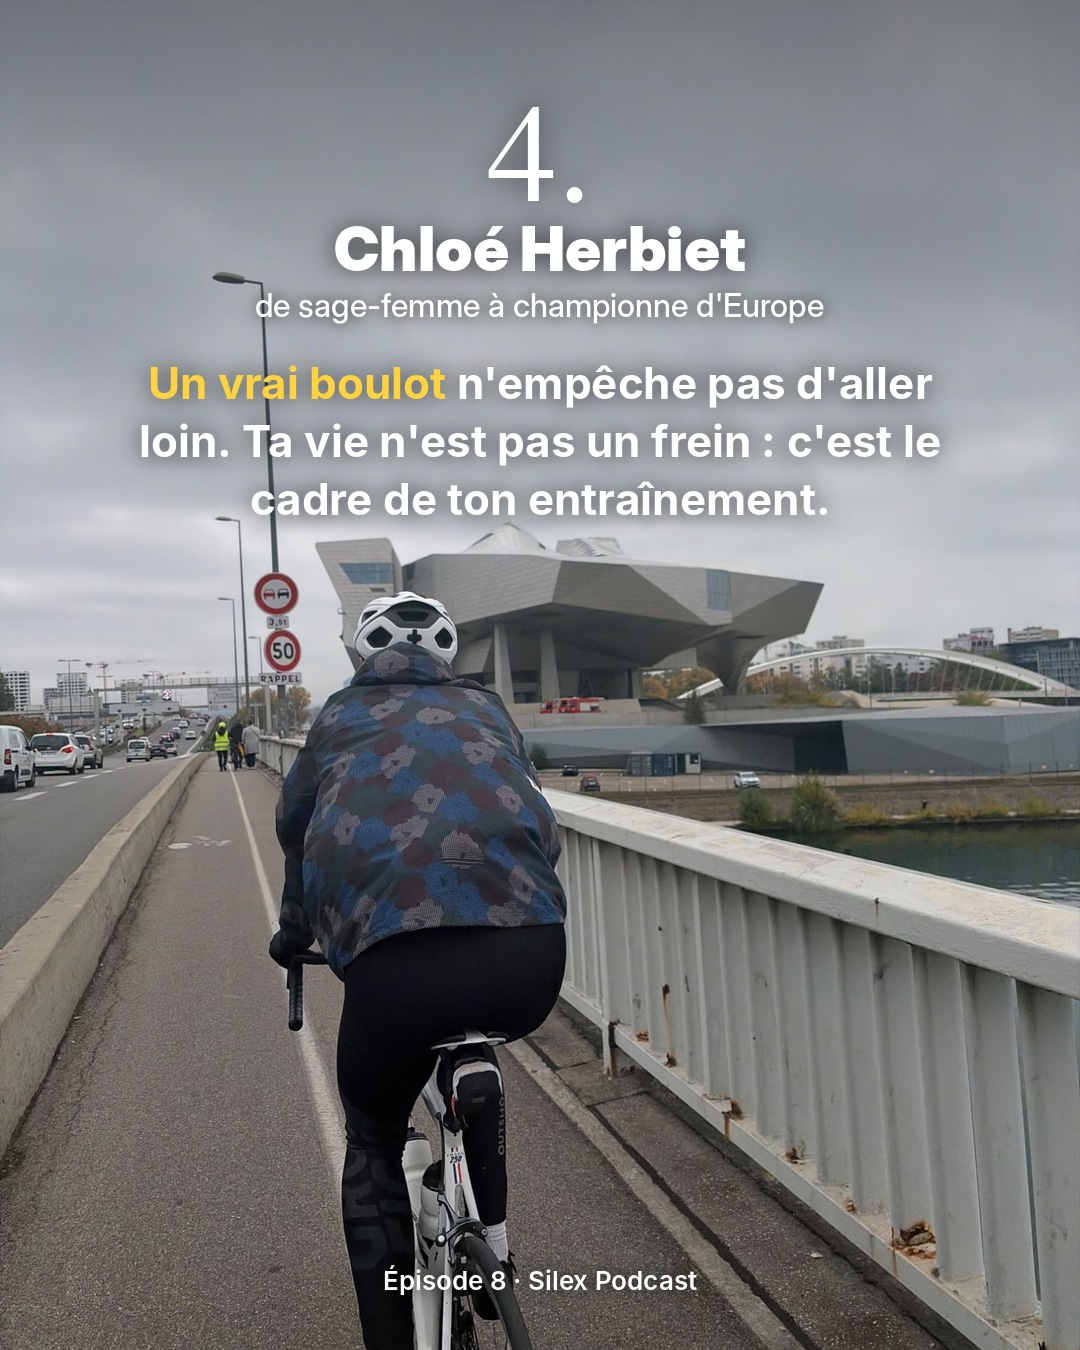
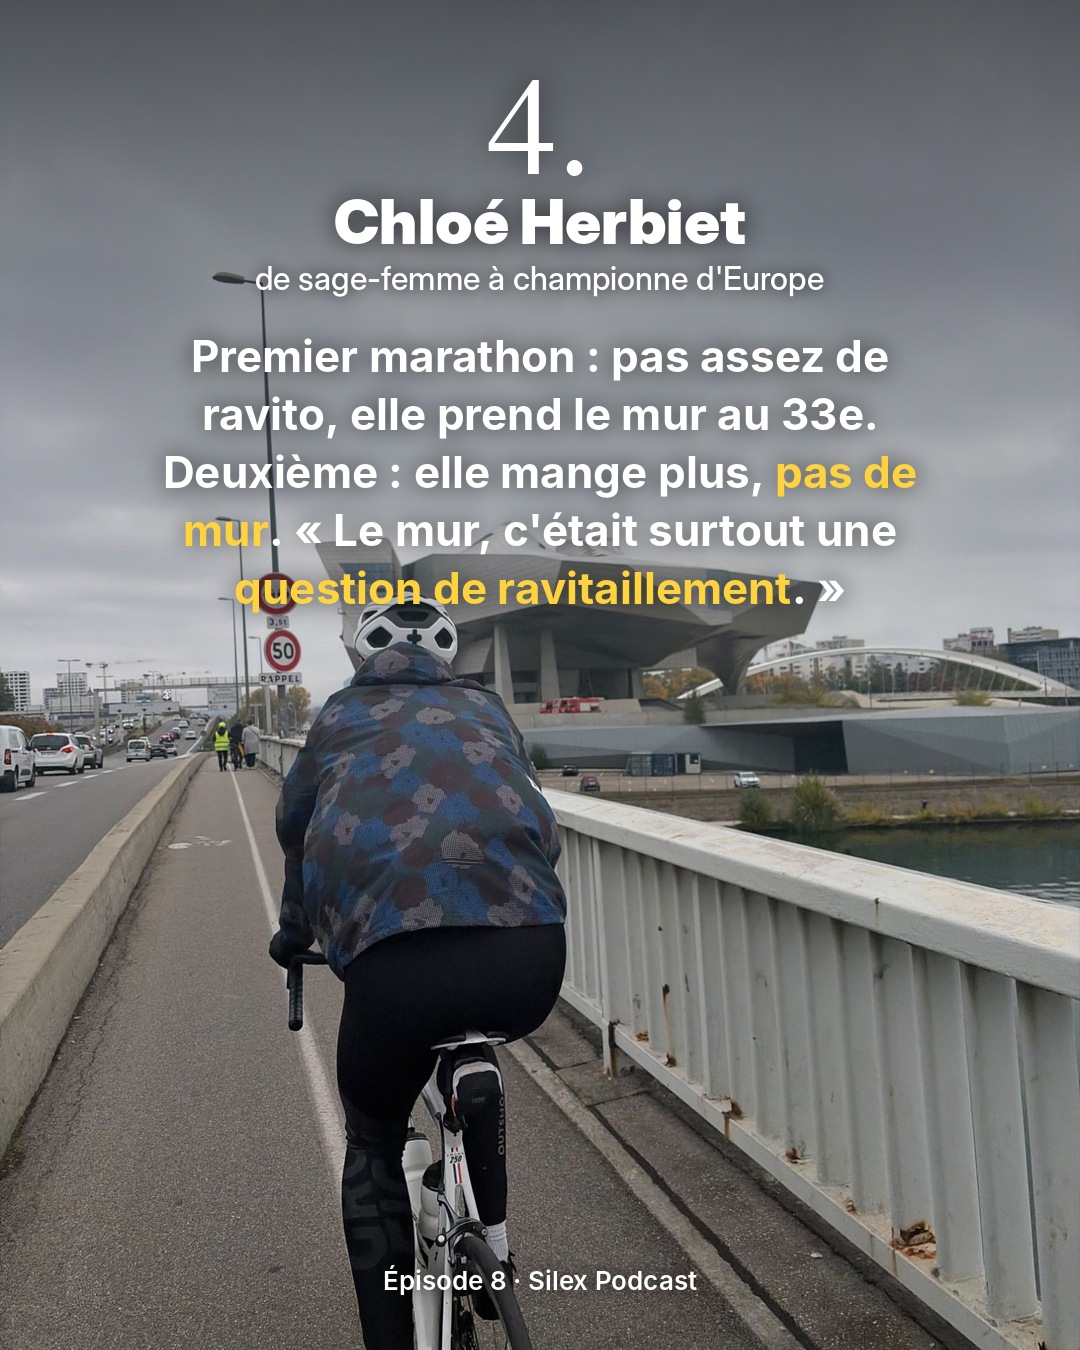
Carrousel Silex : leçon Chloé Herbiet basée sur l'interview, idées de contenus
L'ancienne leçon (« un vrai boulot n'empêche pas d'aller loin ») était
contredite par l'interview ; remplacée par le mur et le ravitaillement.

Claude-Session: https://claude.ai/code/session_01Bwd8fxM92NWrr3aL1Qd296

diff --git a/carrousel-silex/make.py b/carrousel-silex/make.py
@@ -160,9 +160,9 @@ SLIDES = [
      'name': 'Guillaume Millet', 'role': 'chercheur, spécialiste de la fatigue',
      'text': "La fatigue ne se joue pas que dans les jambes. **Ton cerveau** décide souvent avant tes muscles.",
      'credit': 'Épisode 14 · Silex Podcast'},
-    {'photo': 'velo-lyon', 'n': 4, 'y': 0.06,
+    {'photo': 'velo-lyon', 'n': 4, 'y': 0.04, 'shade': (0.5, 170),
      'name': 'Chloé Herbiet', 'role': "de sage-femme à championne d'Europe",
-     'text': "**Un vrai boulot** n'empêche pas d'aller loin. Ta vie n'est pas un frein : c'est le cadre de ton entraînement.",
+     'text': "Premier marathon : pas assez de ravito, elle prend le mur au 33e. Deuxième : elle mange plus, **pas de mur**. « Le mur, c'était surtout une **question de ravitaillement**. »",
      'credit': 'Épisode 8 · Silex Podcast'},
     {'photo': 'avant-depart', 'fx': 0.53, 'fy': 0.55, 'zoom': 1.15, 'n': 5, 'bottom': True, 'y': 0.50,
      'shade_start': 0.40, 'shade_full': 0.62,

diff --git a/carrousel-silex/conseils-herbiet.md b/carrousel-silex/conseils-herbiet.md
@@ -1,0 +1,20 @@
+# Épisode 8 · Chloé Herbiet : idées de contenus tirées de la transcription
+
+| # | Passage | Ce qu'elle dit | Format | Accroche |
+|---|---|---|---|---|
+| 1 | 13:55–15:54 | Pour financer sa première année sans travailler, sa mère l'inscrit à un jeu télé (« Cache-cache »). La famille gagne assez pour la financer un an, et elle se qualifie pour les JO. | Reel storytelling | « Ses parents ont joué à un jeu télé pour l'envoyer aux JO » |
+| 2 | 32:34–33:15 | Premier marathon : mur au 33-34e faute d'alimentation. Deuxième : plus de ravito, pas de mur. | Reel | « Le mur au 30e n'est pas une question de mental » |
+| 3 | 5:13–5:38 | Deux marathons en 6 mois pour se qualifier, puis une fracture de fatigue au sacrum une semaine avant les JO. | Reel | « Elle s'est qualifiée pour les JO… et son corps a dit stop » |
+| 4 | 1:01 et 17:34–18:22 | En arrêtant son métier de sage-femme, elle a surtout gagné en récupération : sommeil, siestes, soins, moins de stress. | Reel ou carrousel | « Ce qui a vraiment changé quand elle a arrêté de travailler » |
+| 5 | 33:28–34:30 | Conseil aux débutants : d'abord une base de volume, en aisance. Pas à fond à chaque sortie. « Si on est en aisance, le lendemain on a envie d'y retourner. » | Reel (à partager) | « Tu cours à fond à chaque sortie ? Arrête. » |
+| 6 | 26:05–26:48 | Après son semi, 5 jours sans courir : « Ce n'est pas en 5 jours que je vais perdre mon niveau. » | Reel court | « Une championne d'Europe prend 5 jours off. Et toi ? » |
+| 7 | 31:28–32:27 | Comment elle découpe un marathon : 10, 15, 21, puis 35-37 km, avec ce qu'elle se dit à chaque étape. | Carrousel | « Comment une championne découpe un marathon dans sa tête » |
+| 8 | 13:13–13:45 | Dans le doute en course, elle se parle : « Tu t'es bien entraînée, tu es prête, ça va le faire. » | Reel | « Ce qu'une championne se dit quand ça devient dur » |
+| 9 | 19:15–19:40 | Elle a mis 2 à 3 ans à passer de chaussures minimalistes à un drop plus élevé, par peur de se blesser. | Reel (lien avec Blaise Dubois) | « Elle a mis 2 ans à changer de chaussures. Elle avait raison. » |
+| 10 | 25:44–25:54 | Cross, piste, route : il ne faut pas courir tout le temps, mais choisir 2 ou 3 compétitions importantes. | Reel | « Arrête de t'inscrire à toutes les courses » |
+
+## Conseils
+
+- L'histoire du jeu télé (passage 1) est la plus forte de l'épisode : émotion, famille, surprise. Fais-en un reel à part entière.
+- Attention au message « un vrai boulot n'empêche pas d'aller loin » : elle dit l'inverse pour le haut niveau. Pour l'amateur, l'angle juste est « ta progression se joue aussi dans le sommeil et le stress ».
+- Les passages 2 et 9 se combinent bien avec l'épisode de Blaise Dubois (ravito, chaussures) pour un carrousel « mythes ».

diff --git a/carrousel-silex/legende.md b/carrousel-silex/legende.md
@@ -11,7 +11,7 @@ Et ce qui revient le plus souvent, ce n'est pas un plan d'entraînement secret :
 1. La VO2max ne gagne pas les courses (@[Kristian Blummenfelt])
 2. 5 minutes de course, ça compte (@[Blaise Dubois])
 3. La fatigue se joue aussi dans la tête (@[Guillaume Millet])
-4. Un vrai boulot n'empêche pas d'aller loin (@[Chloé Herbiet])
+4. Le mur, c'est surtout une question de ravito (@[Chloé Herbiet])
 5. N'attends pas d'être prêt (@[Dawa Sherpa])
 
 💬 Écris SILEX en commentaire et je t'envoie l'épisode avec Kristian Blummenfelt.
@@ -35,6 +35,6 @@ Ces textes ont été écrits sans accès aux transcriptions. Vérifie que chacun
 - ✅ Slide 2 · Kristian Blummenfelt : validé avec la transcription (14:28–15:32, VO2max ~85 à Tokyo, 97 avant Paris).
 - ✅ Slide 3 · Blaise Dubois : validé avec la transcription (39:23–40:32, « 5 minutes, ça compte », 450 appuis par jambe à ~180 pas/min — Blaise dit 900, chiffre corrigé, stress quotidien).
 - [À VALIDER] Slide 4 · Guillaume Millet : « Ton cerveau décide souvent avant tes muscles. »
-- [À VALIDER] Slide 5 · Chloé Herbiet : « Un vrai boulot n'empêche pas d'aller loin. »
+- ✅ Slide 5 · Chloé Herbiet : validé avec la transcription (32:34–33:15, mur au 33-34e au 1er marathon faute d'alimentation, pas de mur au 2e). L'ancienne leçon « un vrai boulot n'empêche pas d'aller loin » était contredite par l'interview : retirée.
 - [À VALIDER] Slide 6 · Dawa Sherpa : « Les pionniers n'attendaient pas d'être prêts. »
 - Les numéros d'épisode (10, 12, 14, 8, 35) viennent des miniatures YouTube.
